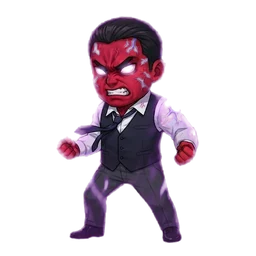
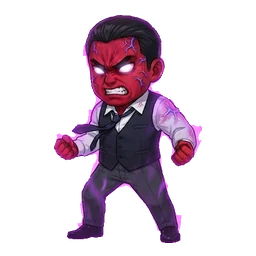
랑방: 4장 벽 해소(보스 한 방 상한 4장부터·4장 난이도), 레벨업 카드 가독성(슬로모·대기열·추천·자동 선택), 속성 그림 아이콘 적용, 보스 그림 추가

diff --git a/public/langbang/game.js b/public/langbang/game.js
@@ -932,6 +932,7 @@ const H$ = {
   mute: $('#btn-mute'), baseBox: document.querySelector('.base-hp'), fx: $('#h-fx'),
   time: $('#h-time'), speed: $('#btn-speed'), syn: $('#h-syn'),
 };
+H$.syn.addEventListener('click', (e) => { if (e.target.closest('[data-act="synMore"]')) ACTS.synMore(); });
 function setText(el, key, v) {
   if (app.hudCache[key] === v) return false;
   app.hudCache[key] = v;
@@ -1225,7 +1226,7 @@ function renderSkillbar() {
   if (skillbar.dataset.key !== key) {
     skillbar.dataset.key = key;
     skillbar.dataset.n = list.length;
-    skillbar.innerHTML = list.map((h) => `<button class="sk" data-slot="${h.slot}" style="--c:${h.def.color}"><span class="ring"></span>${av(h.def)}<em>${esc(h.def.skill.name)}</em><i class="cd"></i></button>`).join('');
+    skillbar.innerHTML = list.map((h) => { const nm = h.def.skill.name; return `<button class="sk" data-slot="${h.slot}" style="--c:${h.def.color}"><span class="ring"></span>${av(h.def)}<em class="${nm.replace(/\s/g, '').length > 4 ? 'long' : ''}">${esc(nm)}</em><i class="cd"></i><b class="cdn"></b></button>`; }).join('');
   }
   let ready = false;
   for (const b of skillbar.children) {
@@ -1238,7 +1239,8 @@ function renderSkillbar() {
     if (r && !b.classList.contains('ready')) vibrate(12);
     b.classList.toggle('ready', r);
     b.classList.toggle('aiming', !!(app.aim && app.aim.h === h));
-    b.querySelector('.cd').textContent = r ? 'READY' : Math.ceil(h.skillCd);
+    b.querySelector('.cd').textContent = r ? 'READY' : '';
+    { const cn = b.querySelector('.cdn'); const v = r ? '' : String(Math.ceil(h.skillCd)); if (cn.textContent !== v) cn.textContent = v; }
     if (r) ready = true;
   }
   // 튜토리얼: 1-1 에서 처음 스킬이 준비되면 알려 준다 · 1-2 에서는 지목
@@ -2043,7 +2045,7 @@ function artCard(id, o = {}) {
   const sub = ok ? `${'★'.repeat(st)}${lv ? ` · +${lv}` : ''}` : pr ? `카드 ${pr[0]}/${pr[1]}` : HERO_UNLOCK[id] ? `${stageLabel(HERO_UNLOCK[id])} 클리어` : '모집';
   return `<button class="acard t${t} ${ok ? '' : 'locked'} ${o.on ? 'on' : ''} ${o.cls || ''}" data-act="${o.act || 'heroCard'}" data-id="${id}" style="--c:${ATTRS[d.attr].color}">
     <span class="ac-art">${art}</span>
-    <i class="ac-tier">${TIER_NAME[t]}</i><span class="ac-attr" style="--ac:${ATTRS[d.attr].color}">${ATTRS[d.attr].icon}<small>${ATTRS[d.attr].name}</small></span>
+    <i class="ac-tier">${TIER_NAME[t]}</i><span class="ac-attr" style="--ac:${ATTRS[d.attr].color}">${attrIco(d.attr)}<small>${ATTRS[d.attr].name}</small></span>
     <span class="ac-foot"><b>${ok ? esc(d.name) : '???'}</b><small>${sub}</small>${pr ? `<i class="ac-prog"><b style="width:${Math.round((pr[0] / pr[1]) * 100)}%"></b></i>` : ''}</span>${o.extra || ''}${o.dot ? '<i class="rd"></i>' : ''}</button>`;
 }
 // ─── 덱 탭: 큰 그림 카드 덱 + 전투력 + 모음 (필터 · 전투력 순) ───
@@ -2084,7 +2086,7 @@ function showDeckTab() {
     <div class="dk-power"><small>덱 전투력</small><b id="dkPow" data-from="${app.lastDeckPow || pw}" data-to="${pw}">${fmt(pw)}</b><em class="${diff >= 0 ? 'up' : 'down'}">다음 스테이지 추천보다 ${diff >= 0 ? '+' : ''}${diff}%</em></div>
     <div class="dk-slots n${max}">${slots.join('')}</div>
     <p class="sub">${ids.length}/${max}명 · 카드를 누르면 넣기/빼기 · 길게 누르면 자세히</p>
-    <div class="chips dk-chips">${ROLE_CHIPS.map(([k, n]) => `<button class="chip ${f === k ? 'on' : ''}" data-act="deckFilter" data-v="${k}">${n}</button>`).join('')}</div>
+    <div class="chips dk-chips">${ROLE_CHIPS.map(([k, n]) => `<button class="chip ${f === k ? 'on' : ''}" data-act="deckFilter" data-v="${k}">${k.startsWith('a:') ? attrIco(k.slice(2)) + ATTRS[k.slice(2)].name : n}</button>`).join('')}</div>
     <div class="agrid three">${coll || '<div class="empty-state"><span>🙋</span><b>이 조건의 멤버가 없어요</b></div>'}</div>
     ${navHtml('deck')}
   `, 'dim withnav deck-screen');
@@ -2414,6 +2416,7 @@ Object.assign(ACTS, {
   heroCard: (b) => showHeroModal(b.dataset.id, app.screen === 'prep' ? 'prep' : ''),
   starUp: (b) => doStarUp(b.dataset.id),
   misTab: (b) => { app.misTab = b.dataset.tab; showMissions(); },
+  synMore: () => { app.synOpen = !app.synOpen; app.hudCache.syn = null; },
   bulkOn: () => { app.bulk = new Set(); app.bagSel = null; showBag(); },
   bulkOff: () => { app.bulk = null; showBag(); },
   bulkPick: (b) => {
@@ -2793,8 +2796,11 @@ function showStages() {
 // ─── 출전 준비: 동료 고르기 ──────────────────────────
 // 맵 효과가 속성을 건드리면: " · 말빨 → 방장·운영진"
 function fxWho(fx0, g) { if (!fx0 || !fx0.attr) return ''; return Object.keys(fx0.attr).map((a) => { const w = attrWho(g, a); return ATTRS[a] && w ? ` · ${ATTRS[a].icon}${ATTRS[a].name} → ${w}` : ''; }).join(''); }
-const attrTag = (a) => (ATTRS[a] ? `<span class="attr" style="--ac:${ATTRS[a].color}">${ATTRS[a].icon}${ATTRS[a].name}</span>` : '');
-const clsTag = (c) => (CLASSES[c] ? `<span class="attr cls" style="--ac:${CLASSES[c].color}">${CLASSES[c].icon}${CLASSES[c].name}</span>` : '');
+const aIco = (id, emoji) => `<img class="aico" src="/img/lb/attr/${id}.webp" alt="${emoji}" draggable="false" onerror="this.replaceWith(document.createTextNode('${emoji}'))">`;
+const attrIco = (a) => (ATTRS[a] ? aIco(a, ATTRS[a].icon) : '');
+const clsIco = (c) => (CLASSES[c] ? aIco(c, CLASSES[c].icon) : '');
+const attrTag = (a) => (ATTRS[a] ? `<span class="attr" style="--ac:${ATTRS[a].color}">${attrIco(a)}${ATTRS[a].name}</span>` : '');
+const clsTag = (c) => (CLASSES[c] ? `<span class="attr cls" style="--ac:${CLASSES[c].color}">${clsIco(c)}${CLASSES[c].name}</span>` : '');
 function strongWeak(attr) {
   const t = TYPE_CHART[attr] || {};
   const st = Object.keys(t).filter((c) => t[c] > 1).map((c) => CLASSES[c].name);
@@ -2811,8 +2817,8 @@ function heroInfoHtml(d, full) {
     ${full ? `<p class="ip">Lv3 ${esc(d.perks[3])} · Lv5 ${esc(d.perks[5])}</p><p class="ip">${attrTag(d.attr)} ${esc(strongWeak(d.attr))}</p>` : ''}`;
 }
 function enemyInfoHtml(e) {
-  const good = Object.keys(ATTRS).filter((a) => typeMul(a, e.cls) > 1).map((a) => ATTRS[a].icon + ATTRS[a].name);
-  const bad = Object.keys(ATTRS).filter((a) => typeMul(a, e.cls) < 1).map((a) => ATTRS[a].icon + ATTRS[a].name);
+  const good = Object.keys(ATTRS).filter((a) => typeMul(a, e.cls) > 1).map((a) => attrIco(a) + ATTRS[a].name);
+  const bad = Object.keys(ATTRS).filter((a) => typeMul(a, e.cls) < 1).map((a) => attrIco(a) + ATTRS[a].name);
   return `<div class="ih"><b>${e.name}</b>${clsTag(e.cls)}${e.boss ? '<em class="bs">보스</em>' : ''}</div>
     <p class="ia">${esc(ENEMY_TIPS[e.id] || '')}</p>
     <p class="ip">잘 먹힘 ${good.join(' ')} · 안 먹힘 ${bad.join(' ')}</p>`;
@@ -3087,16 +3093,17 @@ function synTrayHtml(g, big) {
     const n = g.attrCount[a] || 0;
     if (!n) continue;
     const on = n >= 2;
-    out.push(`<span class="sy ${on ? 'on' : ''}" title="${ATTRS[a].name}">${ATTRS[a].icon}${n}${on ? `<small>+${Math.round(ATTR_SET[Math.min(ATTR_SET.length - 1, n)] * 100)}%</small>` : ''}</span>`);
+    out.push(`<span class="sy ${on ? 'on' : ''}" title="${ATTRS[a].name}">${attrIco(a)}${n}${on ? `<small>+${Math.round(ATTR_SET[Math.min(ATTR_SET.length - 1, n)] * 100)}%</small>` : ''}</span>`);
   }
   for (const t of Object.keys(TAGS)) { const k = g.stacks['tag_' + t] || 0; if (k) out.push(`<span class="sy tag on">${TAGS[t].icon}${k > 1 ? '×' + k : ''}</span>`); }
   const evo = g.heroes.filter((h) => h.evo).length;
   if (evo) out.push(`<span class="sy evo on">✨${evo}</span>`);
-  return out.length ? `<div class="syn-tray ${big ? 'big' : ''}">${out.join('')}</div>` : '';
+  if (!big && out.length > 8 && !app.synOpen) { const more = out.length - 7; out.length = 7; out.push(`<span class="sy more" data-act="synMore">+${more}</span>`); }
+  return out.length ? `<div class="syn-tray ${big ? 'big' : ''} ${out.length > 4 ? 'grid' : ''}">${out.join('')}</div>` : '';
 }
 // 속성 카드(말빨·힘·매력·술 +%)가 어느 속성인지 · 지금 판에서 그 속성인 멤버 이름
 const cardAttr = (c) => (c && (c.attr || (/^syn_(talk|power|charm|booze)$/.test(c.id || '') ? c.id.slice(4) : ''))) || '';
-const attrChip = (a) => (ATTRS[a] ? `<span class="attr mini" style="--ac:${ATTRS[a].color}">${ATTRS[a].icon}${ATTRS[a].name}</span>` : '');
+const attrChip = (a) => (ATTRS[a] ? `<span class="attr mini" style="--ac:${ATTRS[a].color}">${attrIco(a)}${ATTRS[a].name}</span>` : '');
 function attrWho(g, a) { const hs = g ? g.heroes.map((h) => h.def) : (curDeck() || []).filter(Boolean).map((id) => HEROES[id]); return hs.filter((d) => d && d.attr === a).map((d) => d.name).join('·'); }
 // 레벨업 카드: 세로로 긴 종이 카드 + 둥근 메달 아이콘 + NEW 리본 + 시너지 아이콘
 function cardHtml(c, i) {
@@ -3105,9 +3112,9 @@ function cardHtml(c, i) {
   if (c.hero) icon = av(HEROES[c.hero]);
   const isNew = (c.kind === 'global' && !c.stack) || c.kind === 'addHero' || c.kind === 'evo';
   const syn = [];
-  if (c.attr) syn.push(ATTRS[c.attr].icon);
+  if (c.attr) syn.push(attrIco(c.attr));
   if (c.tag) syn.push(TAGS[c.tag].icon);
-  if (c.hero) { syn.push(ATTRS[HEROES[c.hero].attr].icon); for (const t of HERO_TAGS[c.hero] || []) syn.push(TAGS[t].icon); }
+  if (c.hero) { syn.push(attrIco(HEROES[c.hero].attr)); for (const t of HERO_TAGS[c.hero] || []) syn.push(TAGS[t].icon); }
   if (c.risk) syn.push('⚠');
   const stack = c.kind === 'global' && c.stack ? `<span class="stk">${c.stack}→${c.stack + 1}</span>` : '';
   const rec = app.cards && app.g && i === recIndex(app.g, app.cards);
@@ -3548,7 +3555,7 @@ function showDex() {
     const d = kind === 'hero' ? HEROES[id] : ENEMIES[id];
     const ok = dexKnown(kind, id);
     const isNew = ok && !v.has((kind === 'hero' ? 'h:' : 'e:') + id);
-    const tag = kind === 'hero' ? ATTRS[d.attr].icon : CLASSES[d.cls].icon;
+    const tag = kind === 'hero' ? attrIco(d.attr) : clsIco(d.cls);
     const fr = kind === 'hero' ? `fr-t${heroTier(id)}` : d.boss ? 'fr-boss' : d.mid ? 'fr-mid' : 'fr-e';
     const badge = kind === 'hero' ? `<i class="tier t${heroTier(id)}">${TIER_NAME[heroTier(id)]}</i>` : d.boss ? '<i class="dxb bs">보스</i>' : d.mid ? `<i class="dxb md">${d.fuse ? '합체' : '각성'}</i>` : '';
     return `<button class="dexc2 ${fr} ${ok ? '' : 'lock'}" data-act="dexCard" data-kind="${kind}" data-id="${id}" style="--c:${dexColor(kind, d)}">
@@ -3593,8 +3600,8 @@ function dexPageHtml(kind, id, form, duo) {
   } else {
     const fs = firstStageOf(id);
     const tipId = ENEMY_TIPS[id] ? id : d.base || (d.fuse && d.fuse[0]) || id;
-    const good = Object.keys(ATTRS).filter((a) => typeMul(a, d.cls) > 1).map((a) => ATTRS[a].icon + ATTRS[a].name);
-    const bad = Object.keys(ATTRS).filter((a) => typeMul(a, d.cls) < 1).map((a) => ATTRS[a].icon + ATTRS[a].name);
+    const good = Object.keys(ATTRS).filter((a) => typeMul(a, d.cls) > 1).map((a) => attrIco(a) + ATTRS[a].name);
+    const bad = Object.keys(ATTRS).filter((a) => typeMul(a, d.cls) < 1).map((a) => attrIco(a) + ATTRS[a].name);
     const flav = DEX_FLAVOR[id] || (d.fuse ? `${ENEMIES[d.fuse[0]].name} + ${ENEMIES[d.fuse[1]].name} 이 합체했다! 두 진상의 기술을 모두 쓴다.` : d.base ? `평범한 ${ENEMIES[d.base].name} 이 각성했다! 훨씬 크고 단단하다.` : '');
     const shout = (d.shouts || []).slice(0, 2).map((s) => `“${esc(s)}”`).join(' ');
     plate = `<div class="dp-plate"><small>${d.mid ? `중간 보스 · ${d.fuse ? '합체' : '각성'} · ` : d.boss ? '보스 · ' : ''}${shout || esc(CLASSES[d.cls].name)}</small></div>`;
@@ -4050,10 +4057,10 @@ function showHowto() {
     </div>
     <h2 class="title" style="font-size:calc(var(--u)*18);margin-top:14px">속성 상성</h2>
     <p class="sub">머리 쓰는 진상(유혹·정치)엔 🗣말빨 · 🍶술, 몸 쓰는 진상(폭력·진상)엔 👊힘 · 💖매력! (×${TYPE_STRONG} / ×${TYPE_WEAK})</p>
-    <table class="tchart"><tr><th></th>${Object.values(CLASSES).map((c) => `<th>${c.icon}<br>${c.name}</th>`).join('')}</tr>
-      ${Object.values(ATTRS).map((a) => `<tr><th>${a.icon} ${a.name}</th>${Object.keys(CLASSES).map((c) => { const m = typeMul(a.id, c); return `<td class="${m > 1 ? 'st' : m < 1 ? 'wk' : ''}">${m > 1 ? '◎' : m < 1 ? '△' : '·'}</td>`; }).join('')}</tr>`).join('')}
+    <table class="tchart"><tr><th></th>${Object.values(CLASSES).map((c) => `<th>${clsIco(c.id)}<br>${c.name}</th>`).join('')}</tr>
+      ${Object.values(ATTRS).map((a) => `<tr><th>${attrIco(a.id)} ${a.name}</th>${Object.keys(CLASSES).map((c) => { const m = typeMul(a.id, c); return `<td class="${m > 1 ? 'st' : m < 1 ? 'wk' : ''}">${m > 1 ? '◎' : m < 1 ? '△' : '·'}</td>`; }).join('')}</tr>`).join('')}
     </table>
-    <div class="attr-legend">${Object.values(ATTRS).map((a) => { const st = Object.keys(CLASSES).filter((c) => typeMul(a.id, c) > 1).map((c) => CLASSES[c].icon + CLASSES[c].name).join('·'); const who = Object.values(HEROES).filter((d) => d.attr === a.id && !d.summon).map((d) => d.name).join('·'); return `<p>${attrChip(a.id)} <b>${st} 에게 강함</b><small>${esc(who)}</small></p>`; }).join('')}</div>
+    <div class="attr-legend">${Object.values(ATTRS).map((a) => { const st = Object.keys(CLASSES).filter((c) => typeMul(a.id, c) > 1).map((c) => clsIco(c) + CLASSES[c].name).join('·'); const who = Object.values(HEROES).filter((d) => d.attr === a.id && !d.summon).map((d) => d.name).join('·'); return `<p>${attrChip(a.id)} <b>${st} 에게 강함</b><small>${esc(who)}</small></p>`; }).join('')}</div>
     <p class="sub" style="margin-top:6px">스테이지마다 <b>맵 효과</b>(🌧비 · 🌫안개 · 💡정전 · 🎤노래방 …)도 있어요. 스테이지 정보에서 추천 속성을 보고 팀을 짜요!</p>
     <h2 class="title" style="font-size:calc(var(--u)*18);margin-top:14px">진상 도감</h2>
     <div class="enemy-grid">${enemies}</div>

diff --git a/public/langbang/render.js b/public/langbang/render.js
@@ -262,6 +262,7 @@ export class Renderer {
     for (let i = 0; i < 4; i++) list['bar' + i] = `/img/lb/ui/barricade_${i}.webp`;
     for (const k of ['heart', 'fire', 'electric', 'gold', 'shock', 'spark']) list['fx_' + k] = `/img/lb/fx/${k === 'shock' ? 'shock_ring' : k === 'spark' ? 'hit_spark' : 'explo_' + k}.webp`;
     list.pCrown = '/img/lb/fx/p_crown.webp'; list.pBottle = '/img/lb/fx/p_bottle.webp'; list.pBottleRage = '/img/lb/fx/p_bottle_rage.webp'; // 그린 투사체 (없으면 코드로 그린 것)
+    for (const k of ['talk', 'power', 'charm', 'booze']) list['attr_' + k] = `/img/lb/attr/${k}.webp`; // 속성 배지 그림
     list.bg = '/img/lb/bg.webp';
     list.bg2 = '/img/lb/bg2.webp';
     list.bg3 = '/img/lb/bg3.webp';
@@ -1725,35 +1726,26 @@ export class Renderer {
         cx.drawImage(hs.c, -8, -8, 16, 16);
         cx.globalAlpha = 1;
       }
-      // 이름표: [속성 동그라미] 이름 한 알약 + 오른쪽 위에 작은 레벨 칩 · 옆 멤버와 안 겹치게 폭 제한(넘치면 …)
+      // 발밑 배지: 이름은 안 쓴다 (눌러서 보기) — [속성] Lv칩 · 게스트는 G 리본 (다른 디펜스 게임들처럼)
       this.world();
       {
-        const label = h.guest ? '게스트 ' + h.def.name : h.def.name;
-        const gap = g.slotX && g.slotX.length > 1 ? Math.abs(g.slotX[1] - g.slotX[0]) : 58;
-        const maxW = Math.max(40, Math.min(64, gap - 4));
-        cx.textBaseline = 'middle';
-        if ('letterSpacing' in cx) cx.letterSpacing = '0.2px';
-        cx.font = `800 9.5px ${FONT}`;
-        let name = label, nw = cx.measureText(name).width;
-        while (nw > maxW - 19 && name.length > 1) { name = name.slice(0, -1); nw = cx.measureText(name + '…').width; }
-        if (name !== label) name += '…';
-        const pw = Math.min(maxW, nw + 19), ph = 14, px = hx - pw / 2, ly = feet + 9;
-        cx.fillStyle = h.guest ? 'rgba(10,90,110,0.92)' : h.def.legend ? 'rgba(90,60,0,0.92)' : h.def.hidden ? 'rgba(80,10,70,0.88)' : 'rgba(12,10,28,0.85)';
-        roundRect(cx, px, ly - ph / 2, pw, ph, ph / 2); cx.fill();
-        cx.strokeStyle = h.def.legend ? '#ffd84a' : h.def.hidden ? '#ff7fe6' : 'rgba(255,255,255,0.18)'; cx.lineWidth = 1; cx.stroke();
-        const at = ATTRS[h.def.attr];
-        if (at) { cx.fillStyle = at.color; cx.beginPath(); cx.arc(px + 7, ly, 4.6, 0, Math.PI * 2); cx.fill(); cx.font = `6.5px ${FONT}`; cx.textAlign = 'center'; cx.fillText(at.icon, px + 7, ly + 0.5); }
-        cx.font = `800 9.5px ${FONT}`; cx.textAlign = 'left'; cx.fillStyle = '#ffe9a8';
-        cx.fillText(name, px + 13.5, ly + 0.5);
-        // 레벨 칩 (알약 오른쪽 위에 살짝 걸치게)
+        const ly = feet + 9, at = ATTRS[h.def.attr];
         const lvT = h.lv >= 5 ? 'MAX' : 'Lv' + h.lv;
-        cx.font = `800 7.5px ${FONT}`;
-        const cw = cx.measureText(lvT).width + 6, chh = 10, cxp = px + pw - cw + 3, cyp = ly - ph / 2 - chh + 3;
-        cx.fillStyle = h.lv >= 5 ? '#ff9f1c' : '#2b6f9e'; roundRect(cx, cxp, cyp, cw, chh, 5); cx.fill();
-        cx.strokeStyle = 'rgba(0,0,0,0.55)'; cx.stroke();
-        cx.fillStyle = '#fff'; cx.textAlign = 'center'; cx.fillText(lvT, cxp + cw / 2, cyp + chh / 2 + 0.5);
-        if ('letterSpacing' in cx) cx.letterSpacing = '0px';
-        cx.textAlign = 'center';
+        cx.textBaseline = 'middle'; cx.textAlign = 'center';
+        cx.font = `800 8px ${FONT}`;
+        const tw = cx.measureText(lvT).width, pw = tw + 20, ph = 13, px = hx - pw / 2;
+        cx.fillStyle = h.def.legend ? 'rgba(90,60,0,0.92)' : h.def.hidden ? 'rgba(80,10,70,0.9)' : 'rgba(12,10,28,0.85)';
+        roundRect(cx, px, ly - ph / 2, pw, ph, ph / 2); cx.fill();
+        cx.strokeStyle = h.lv >= 5 ? '#ff9f1c' : h.def.legend ? '#ffd84a' : h.def.hidden ? '#ff7fe6' : 'rgba(255,255,255,0.25)'; cx.lineWidth = 1; cx.stroke();
+        const ai = at && this.images['attr_' + h.def.attr];
+        if (at && imgOk(ai)) cx.drawImage(ai, px + 1.5, ly - 5, 10, 10);
+        else if (at) { cx.fillStyle = at.color; cx.beginPath(); cx.arc(px + 6.5, ly, 4.2, 0, Math.PI * 2); cx.fill(); cx.font = `6px ${FONT}`; cx.fillStyle = '#000'; cx.fillText(at.icon, px + 6.5, ly + 0.5); cx.font = `800 8px ${FONT}`; }
+        cx.fillStyle = h.lv >= 5 ? '#ffb347' : '#bfeaff';
+        cx.fillText(lvT, px + 13 + tw / 2, ly + 0.5);
+        if (h.guest) { // G 리본
+          cx.fillStyle = '#1fb3c9'; cx.beginPath(); cx.arc(px + pw + 1, ly - 6, 5.5, 0, Math.PI * 2); cx.fill(); cx.strokeStyle = '#063a44'; cx.stroke();
+          cx.fillStyle = '#fff'; cx.font = `900 7px ${FONT}`; cx.fillText('G', px + pw + 1, ly - 5.5);
+        }
       }
       const ly = feet + 9;
       // 배현경 다이어트 게이지 · 고아라 나이 게이지

diff --git a/public/langbang/style.css b/public/langbang/style.css
@@ -1920,3 +1920,23 @@ html, body { height: 100%; height: -webkit-fill-available; height: 100svh; heigh
 #cardq small { display: block; font-size: calc(var(--u) * 9); opacity: 0.8; }
 #cardq[hidden] { display: none; }
 @keyframes cardqBob { to { transform: translateX(-50%) translateY(calc(var(--u) * -4)); } }
+
+/* 속성·계열 배지 그림 (없으면 이모지) */
+.aico { display: inline-block; width: 1.25em; height: 1.25em; vertical-align: -0.28em; object-fit: contain; margin-right: 0.1em; }
+.tchart .aico { width: 1.6em; height: 1.6em; }
+
+/* 스킬 바: 6개도 360에 맞게 · 이름 알약 크게 · 쿨타임 숫자 가운데 · READY 빛 고리 */
+#skillbar { gap: calc(var(--u) * 4); bottom: calc(var(--u) * 78); }
+#skillbar[data-n="5"] .sk, #skillbar[data-n="6"] .sk { width: calc(var(--u) * 42); height: calc(var(--u) * 42); }
+#skillbar[data-n="6"] { gap: calc(var(--u) * 3); }
+#skillbar .sk em { bottom: calc(var(--u) * -13); font-size: calc(var(--u) * 11); font-weight: 900; color: #fff; background: rgba(8, 4, 18, 0.92); border: 1px solid rgba(255, 255, 255, 0.35); padding: calc(var(--u) * 1) calc(var(--u) * 5); border-radius: 99px; text-shadow: 0 0 2px #000, 0 1px 0 #000; letter-spacing: -0.02em; max-width: calc(var(--u) * 56); overflow: hidden; text-overflow: ellipsis; }
+#skillbar .sk em.long { font-size: calc(var(--u) * 9.5); }
+#skillbar .sk .cdn { position: absolute; inset: 0; display: grid; place-items: center; z-index: 3; font-size: calc(var(--u) * 17); font-weight: 900; color: #fff; text-shadow: 0 0 3px #000, 0 2px 0 #000; pointer-events: none; }
+#skillbar .sk:not(.ready) .cd { display: none; }
+#skillbar .sk.ready .cd { top: calc(var(--u) * -7); right: 50%; transform: translateX(50%); font-size: calc(var(--u) * 7.5); padding: 0 calc(var(--u) * 4); }
+#skillbar .sk.ready::after { content: ''; position: absolute; inset: calc(var(--u) * -3); border-radius: 50%; border: calc(var(--u) * 3) solid #ffe066; box-shadow: 0 0 calc(var(--u) * 10) #ffd23f, inset 0 0 calc(var(--u) * 6) #ffd23f; animation: skRing 0.9s ease-in-out infinite alternate; pointer-events: none; }
+@keyframes skRing { to { transform: scale(1.08); opacity: 0.75; } }
+/* 왼쪽 버프: 2줄 격자로 짧게 */
+.h-syn .syn-tray.grid { display: grid; grid-template-columns: repeat(2, auto); gap: calc(var(--u) * 3); }
+.h-syn .syn-tray .sy { padding: 0 calc(var(--u) * 4); font-size: calc(var(--u) * 10); }
+.h-syn .syn-tray .sy.more { pointer-events: auto; cursor: pointer; border-color: #7df9ff; color: #7df9ff; font-weight: 900; }

diff --git a/public/langbang/data.js b/public/langbang/data.js
@@ -62,7 +62,7 @@ export function expNeed(lv) {
   return Math.round(4 + lv * 3 + lv * lv * 0.32);
 }
 // 레벨업은 드물게, 대신 한 번 한 번이 크게: 필요 경험치 ×2.2 (스테이지는 뒤로 갈수록 경험치를 줄여 스테이지당 4~6번)
-export const EXP_NEED_MUL = 2.2;
+export const EXP_NEED_MUL = 2.4; // (2.2 → 2.4: 카드가 너무 자주 떠서 조금 천천히)
 export const stageExpMul = (s) => 1 / (1 + 0.1 * Math.max(0, (s || 1) - 1));
 
 // 웨이브별 적 체력 배율
@@ -196,7 +196,7 @@ export const STAGE = {
   deckCount: 1.45, // 덱 보정: 적 수 배율
   hpTune: [1.0, 1.4, 1.9, 1.15, 1.25, 1.5], // 챕터별 최종 난이도 조정 (밸런스 스크립트로 맞춘 값)
   swarm: [1.3, 1.6, 1.9, 2.2, 2.6, 3.0], // 챕터별 적 수 배율 (떼로 몰려온다 · 1-1 은 그대로)
-  stageAdd: {3: 2.5, 4: 3.5, 5: -2, 6: -4, 7: 1.5, 8: 5.8, 9: -1, 10: 3.3, 11: -0.5, 12: 1.2, 13: 2, 14: 9.5, 15: -6, 16: 3.5, 17: 3.25, 18: 3, 19: -0.9, 20: -0.3, 22: 6, 25: 6, 26: 1.7, 27: 2, 28: -6, 29: -9.5, 30: 3.5, 31: -7, 33: -1.6, 34: -3.6, 35: 6, 36: -3, 37: 3.5, 39: -0.6, 40: 3.1, 41: -1.5, 42: -1, 43: -6, 45: 2, 46: 3.5, 48: -2, 50: -2, 51: -3.2, 52: -1, 53: 3.5, 55: 9, 56: -2.6, 59: 3}, // 챕터 끝 보스 바로 앞 스테이지는 살짝 더
+  stageAdd: {3: 2.5, 4: 3.5, 5: -2, 6: -4, 7: 1.5, 8: 5.8, 9: -1, 10: 3.3, 11: -0.5, 12: 1.2, 13: 2, 14: 9.5, 15: -6, 16: 3.5, 17: 3.25, 18: 3, 19: -0.9, 20: -0.3, 22: 6, 25: 6, 26: 1.7, 27: 2, 28: -6, 29: -9.5, 30: 3.5, 31: -15.5, 32: -5.5, 33: -4, 34: -10, 35: -2, 36: -8, 37: -1.5, 38: 3, 39: -11, 40: -3.5, 41: -1.5, 42: -1, 43: -6, 45: 2, 46: 3.5, 48: -2, 50: -2, 51: -3.2, 52: -1, 53: 3.5, 55: 9, 56: -2.6, 59: 3}, // 챕터 끝 보스 바로 앞 스테이지는 살짝 더
   themeLevel: { violent: -1.2 }, // 폭력형 스테이지는 단단한 적이 많아서 조금 낮게 // 나머지 계열 비중
 };
 // 덱 5명으로 싸우니 적도 그만큼 단단하게 — 1-1 은 연습이라 그대로, 1-3 부터 본격

diff --git a/public/langbang/sim.js b/public/langbang/sim.js
@@ -886,7 +886,7 @@ export function spawnEnemy(g, type, x, y, o = {}) {
 
 // 적에게 피해. (독재자 오라 · 패거리 뭉치기 · 들켰다 배율) → 방어력 → 보호막 → 체력 순
 // aoe: 범위/관통 공격 — 패거리 뭉치기를 무시한다
-export const BOSS_GUARD = { hit: 0.05, perSec: 0.07, over: 0.2, from: 20 }; // 3장부터
+export const BOSS_GUARD = { hit: 0.05, perSec: 0.07, over: 0.2, from: 30 }; // 4장부터 (3-10 은 원래대로)
 export function damageEnemy(g, e, dmg, crit, src, aoe, flank) {
   if (e.dead) return 0;
   if (g.encoreT > 0 && src && src.def) dmg *= 1 + (g.encoreDmg || 0); // 김도훈 앵콜 버프
@@ -929,7 +929,7 @@ export function damageEnemy(g, e, dmg, crit, src, aoe, flank) {
   if (e.armor) dmg = Math.max(dmg * 0.35, dmg - e.armor);
   // 보스 · 중간 보스: 한 방에 최대 체력 5% 넘게는 잘 안 들어간다 (넘는 만큼은 ⅕) + 1초에 7% 넘게 몰아치면 넘친 만큼 ⅕
   //  → 아주 센 덱도 보스는 몇 초 만에 녹지 않는다 (공주의 일격 · 황금 파동 같은 큰 한 방도 여전히 크게 깎이긴 함)
-  if ((e.boss || e.mid) && src && e.maxHp > 0 && (g.mode !== 'stage' || g.stage > BOSS_GUARD.from)) { // 1~2장은 보스가 원래 금방 잡히게 둔다
+  if ((e.boss || e.mid) && src && e.maxHp > 0 && (g.mode !== 'stage' || g.stage > BOSS_GUARD.from)) { // 1~3장은 보스가 원래대로
     const cap = e.maxHp * BOSS_GUARD.hit;
     if (dmg > cap) dmg = cap + (dmg - cap) * BOSS_GUARD.over;
     const room = Math.max(0, e.maxHp * BOSS_GUARD.perSec - (e.burst || 0));
